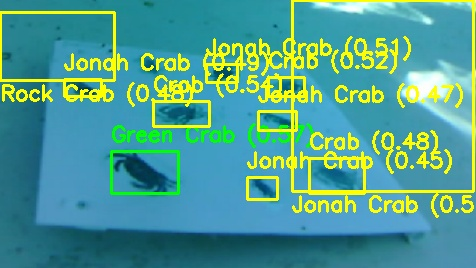
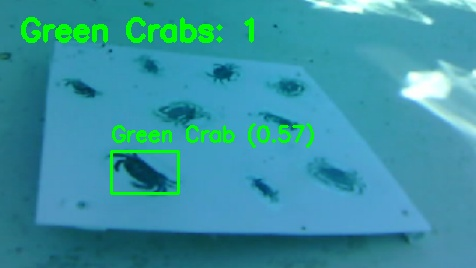
updated image rec to ONLY detect green crabs

Changed region(s): [[0.0, 0.0, 1.0, 0.8358]]

diff --git a/image_rec/identify_crab.py b/image_rec/identify_crab.py
@@ -234,11 +234,22 @@ def detect_and_identify_crabs(image_path, output_path="output.jpg"):
         else:
             print(f"  Region ({x},{y},{w},{h}): below threshold ({best_score:.3f}), skipping")
 
-    detections = apply_nms(detections, iou_threshold=0.4)
-    print(f"\nFinal detections after NMS: {len(detections)}")
+    # Keep ONLY green crabs
+    green_detections = [
+        d for d in detections
+        if "Green Crab" in d[5]
+    ]
 
-    for (x, y, w, h, score, label) in detections:
-        color = (0, 255, 0) if "Green" in label else (0, 255, 255)
+    # Apply NMS only to green crabs
+    green_detections = apply_nms(green_detections, iou_threshold=0.4)
+
+    # Count green crabs
+    green_count = len(green_detections)
+    print(f"\nFinal green crab detections after NMS: {green_count}")
+
+    # Draw only green crabs
+    for (x, y, w, h, score, label) in green_detections:
+        color = (0, 255, 0)
         cv2.rectangle(img_cv, (x, y), (x + w, y + h), color, 2)
         text_y = y - 10 if y > 30 else y + h + 20
         cv2.putText(
@@ -248,10 +259,19 @@ def detect_and_identify_crabs(image_path, output_path="output.jpg"):
             0.7, color, 2
         )
 
-    cv2.imwrite(output_path, img_cv)
-    print(f"Saved annotated image to: {output_path}")
+    # Add green crab count to screen
+    cv2.putText(
+        img_cv,
+        f"Green Crabs: {green_count}",
+        (20, 40),
+        cv2.FONT_HERSHEY_SIMPLEX,
+        1.0,
+        (0, 255, 0),
+        3
+    )
 
-    return detections
+    cv2.imwrite(output_path, img_cv)
+    return green_detections
 
 # Entry point
 if __name__ == "__main__":